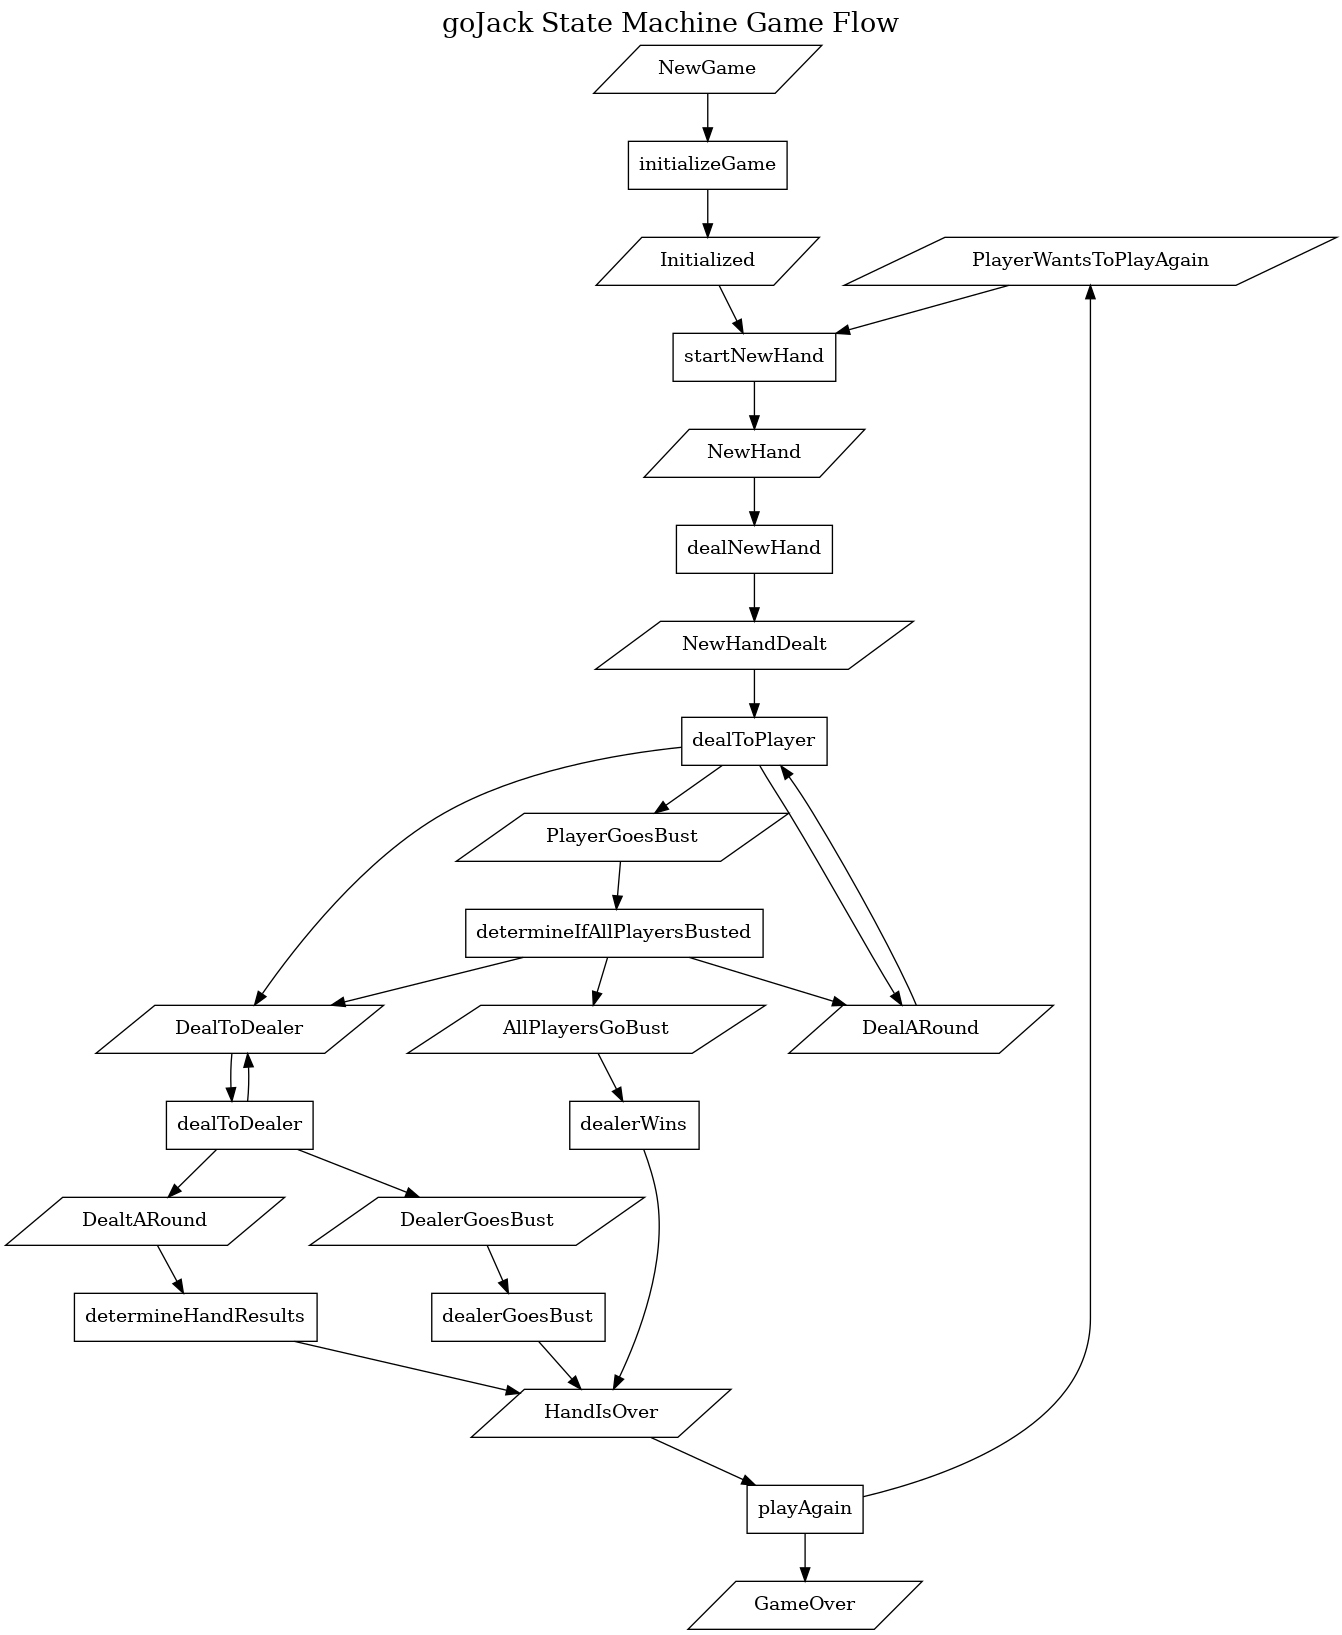
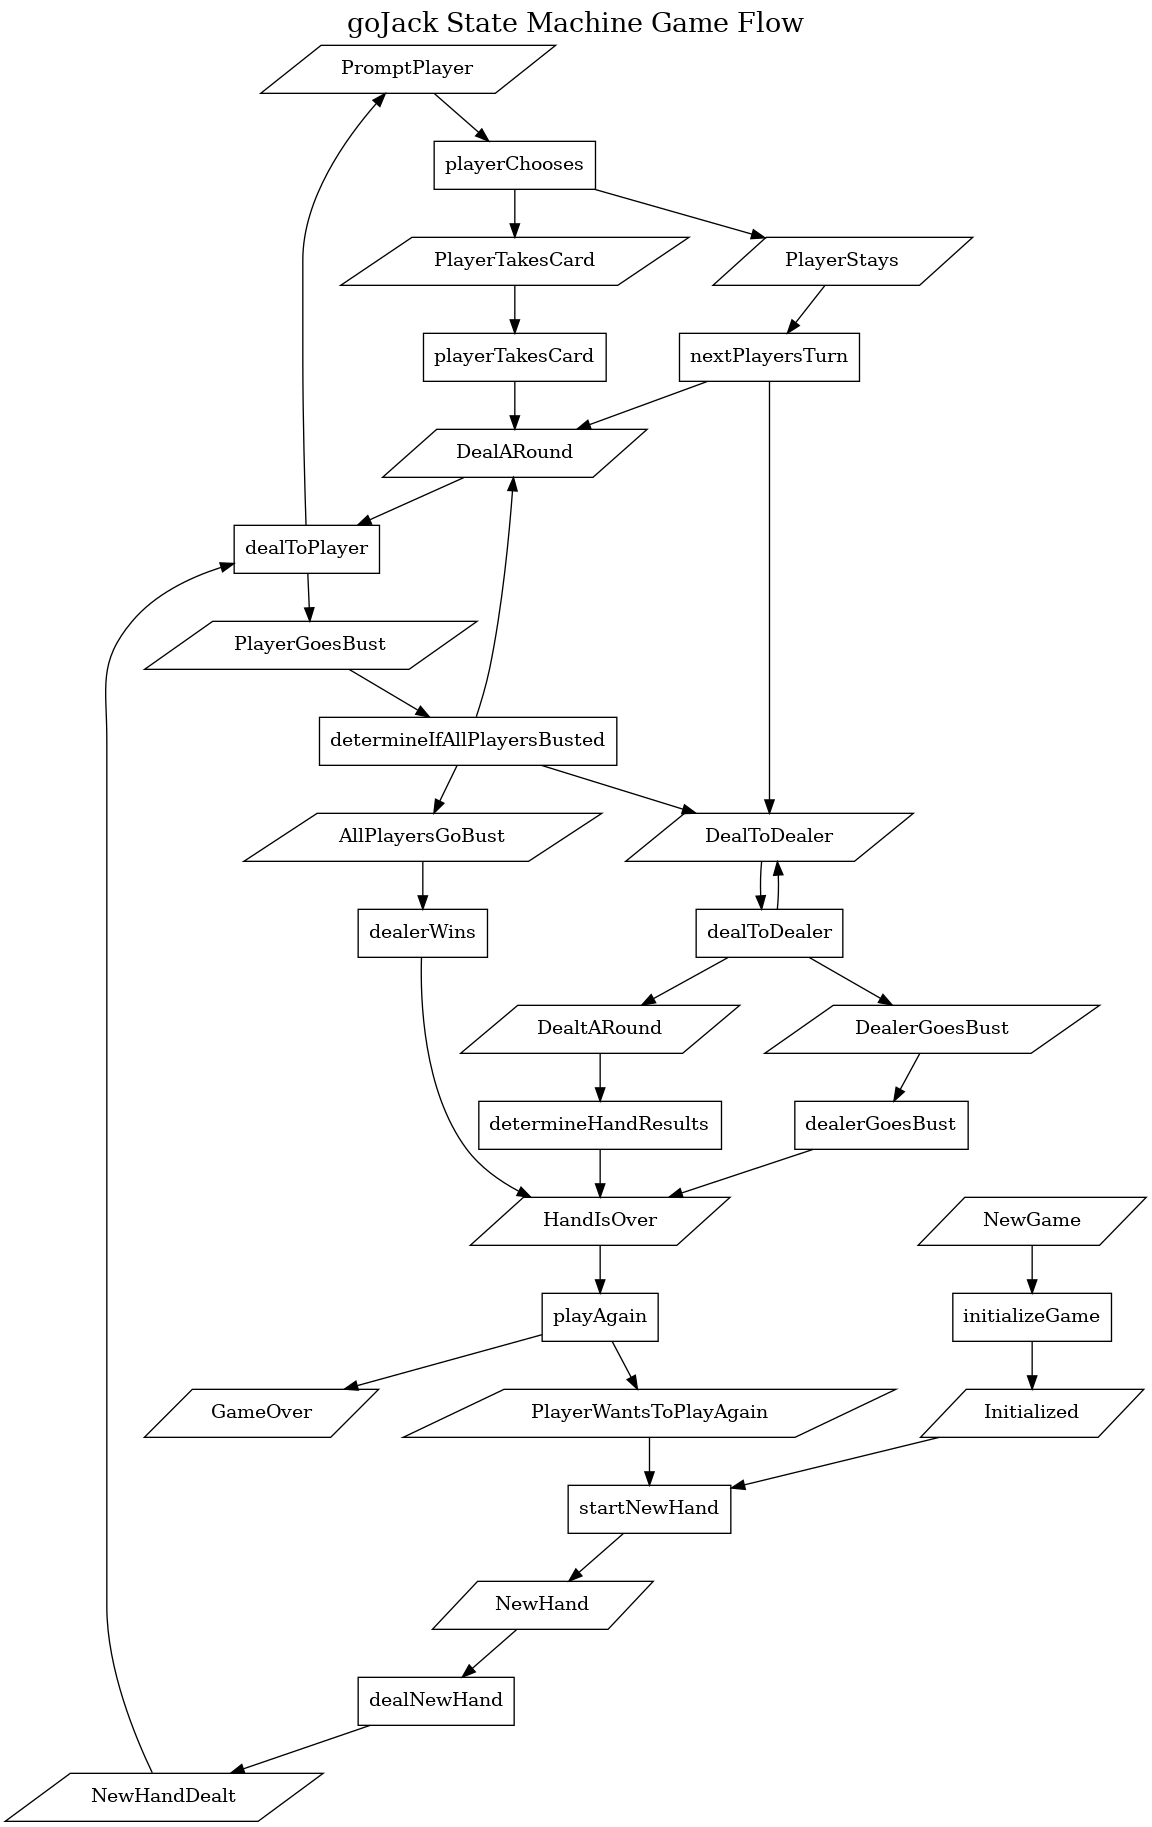
introduce new states to isolate where player choice (hit or stay) is prompted, and support the choice

diff --git a/pkg/game/state_functions.go b/pkg/game/state_functions.go
@@ -61,10 +61,9 @@ func dealNewHand() {
 
 // dealToPlayer
 // Trigger States: DealARound, NewHandDealt
-// Resulting States: DealARound, PlayerGoesBust, DealToDealer
+// Resulting States: PlayerGoesBust, PromptPlayer
 func dealToPlayer() {
 	p := theGame.Players[theGame.CurrentPlayerID]
-	choiceMade := false
 
 	theGame.ShowCards()
 
@@ -79,6 +78,16 @@ func dealToPlayer() {
 		return
 	}
 
+	theGame.State = PromptPlayer
+}
+
+// playerChooses
+// Trigger States: PromptPlayer
+// Resulting States: PlayerTakesCard, PlayerStays
+func playerChooses() {
+	p := theGame.Players[theGame.CurrentPlayerID]
+
+	choiceMade := false
 	// What does the player want to do?
 	for !choiceMade && p.Choice == player.HIT {
 		fmt.Printf("%s: (H)it or (S)tay? ", p.Name)
@@ -86,16 +95,32 @@ func dealToPlayer() {
 		fmt.Scanln(&choice)
 		choiceMade = p.MakeChoice(choice)
 	}
-
 	if p.Choice == player.HIT {
-		p.Hand.Takes(theGame.Dealer.Deck.Cards.GiveCard(1))
+		theGame.State = PlayerTakesCard
 	} else {
-		// Player choses to Stay, play goes to next player or the Dealer
-		theGame.CurrentPlayerID += 1
-		if theGame.CurrentPlayerID == len(theGame.Players) {
-			theGame.State = DealToDealer
-		}
+		theGame.State = PlayerStays
 	}
+}
+
+// playerTakesCard
+// Trigger States: PlayerTakesCard
+// Resulting States: DealARound
+func playerTakesCard() {
+	p := theGame.Players[theGame.CurrentPlayerID]
+	p.Hand.Takes(theGame.Dealer.Deck.Cards.GiveCard(1))
+	theGame.State = DealARound
+}
+
+// playerStays
+// Trigger States: PlayerStays
+// Resulting States: DealARound, DealToDealer
+func nextPlayersTurn() {
+	// Player choses to Stay, play goes to next player or the Dealer
+	theGame.CurrentPlayerID += 1
+	if theGame.CurrentPlayerID == len(theGame.Players) {
+		theGame.State = DealToDealer
+	}
+	theGame.State = DealARound
 }
 
 // dealToDealer

diff --git a/pkg/game/game_states.go b/pkg/game/game_states.go
@@ -13,6 +13,9 @@ const (
 	DealARound
 	DealtARound
 	DealToDealer
+	PromptPlayer
+	PlayerStays
+	PlayerTakesCard
 	PlayerGoesBust
 	AllPlayersGoBust
 	DealerGoesBust
@@ -31,6 +34,9 @@ var (
 		NewHandDealt:           dealToPlayer,
 		DealARound:             dealToPlayer,
 		DealToDealer:           dealToDealer,
+		PromptPlayer:           playerChooses,
+		PlayerStays:            nextPlayersTurn,
+		PlayerTakesCard:        playerTakesCard,
 		DealtARound:            determineHandResults,
 		PlayerGoesBust:         determineIfAllPlayersBusted,
 		AllPlayersGoBust:       dealerWins,
